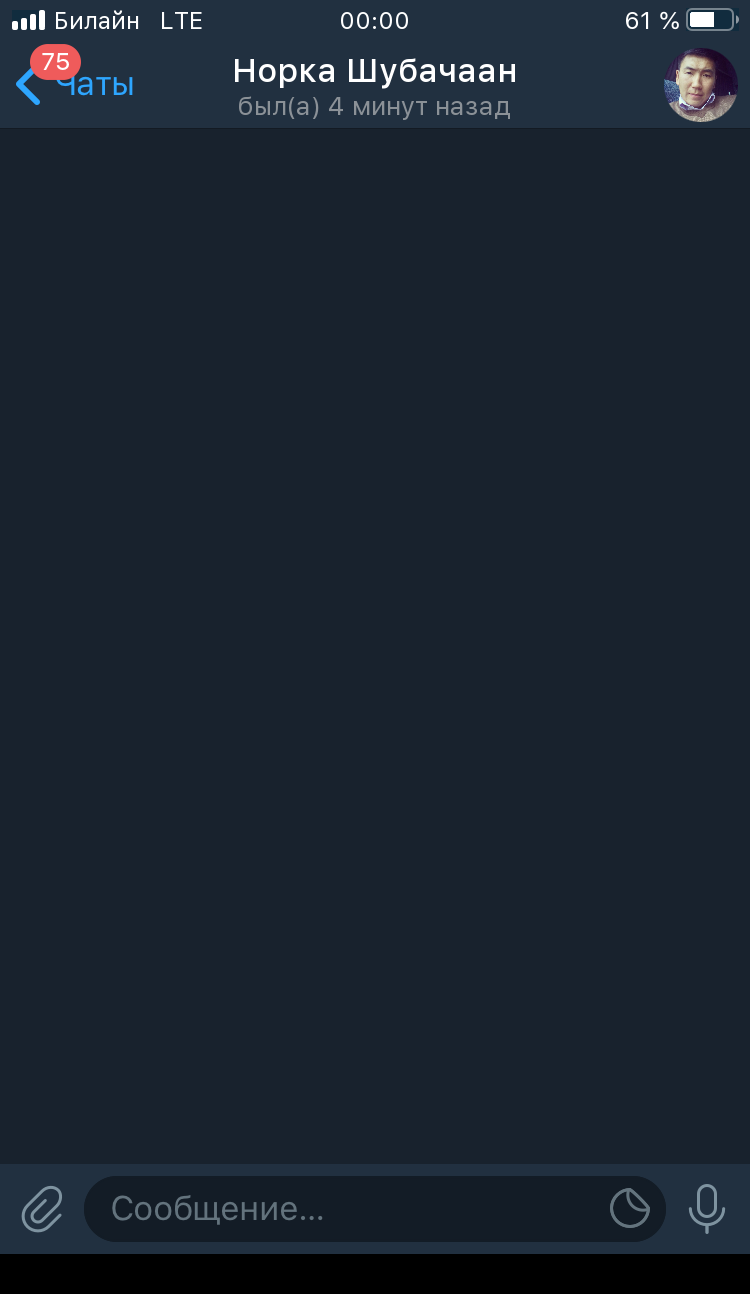
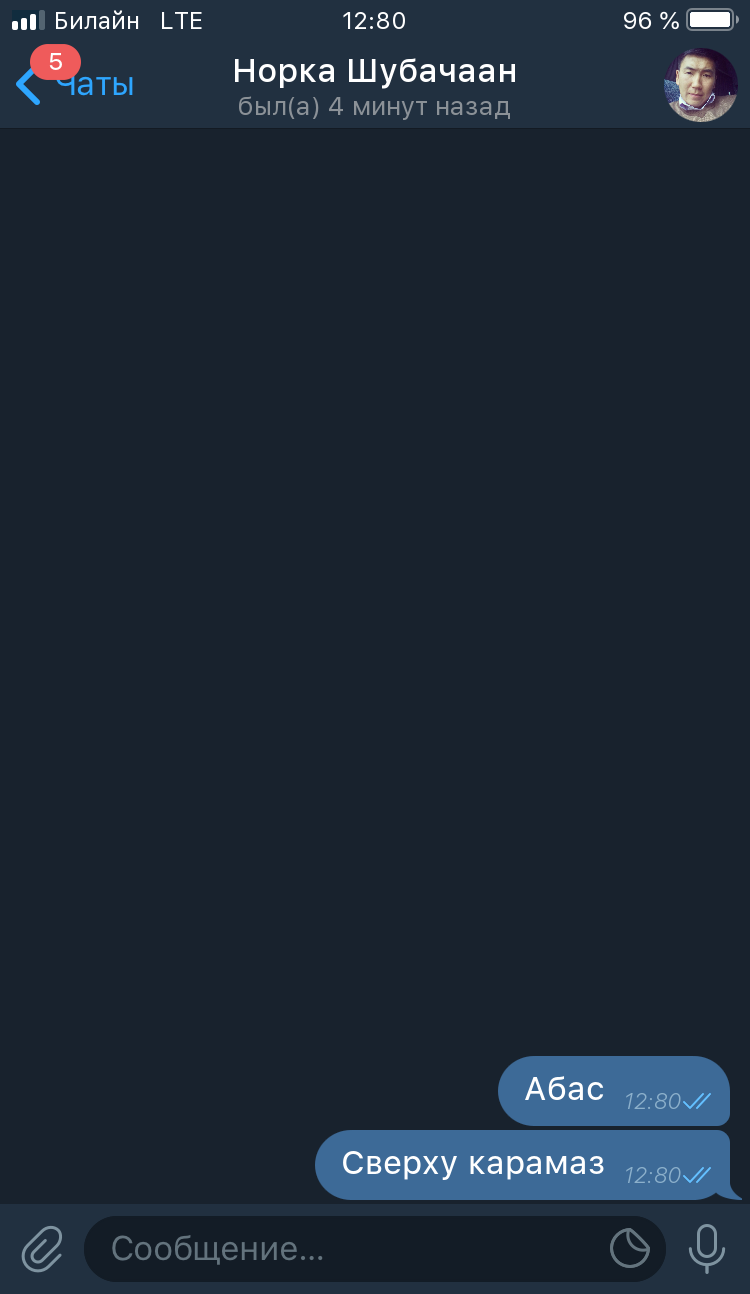
k

diff --git a/bot.py b/bot.py
@@ -5,6 +5,7 @@ import telepot
 from telepot.loop import OrderedWebhook
 import smswithstatusbar as smsdrawer
 from telegram_drawer import chat as chatdraw
+import watermarker as wm
 import result_drawer
 import joydrawer
 import sberdrawer
@@ -21,7 +22,9 @@ Webhook path is '/webhook', therefore:
 query = {}
 sms_query = {}
 telegram_query = {}
+img_query = {}
 amounts = {}
+WATERMARK_MODE = True
 PASSWORD = 'артем крутой'
 ADMINS = ['474504117', 474504117]
 
@@ -38,7 +41,8 @@ def adminka(chat_id):
         [dict(text='Сбербанк💳', callback_data='sberbank.generate')],
         [dict(text='JOYCASINO Баланс🤑', callback_data='joycasino.generate')],
         [dict(text='SMS✉', callback_data='sms.generate')],
-        [dict(text='Telegram[Beta]💠', callback_data='telegram.generate')]]))
+        [dict(text='Telegram[Beta]💠', callback_data='telegram.generate')],
+        [dict(text='Watermark✏', callback_data='watermark.generate')]]))
 
 def on_chat_message(msg):
     content_type, chat_type, chat_id = telepot.glance(msg)
@@ -145,6 +149,23 @@ def on_chat_message(msg):
             result = chatdraw(telegram_query[chat_id]['chatlist'],telegram_query[chat_id]['name'],
                         telegram_query[chat_id]['avatar'],telegram_query[chat_id]['online'])
             bot.sendPhoto(chat_id, result, reply_markup=InlineKeyboardMarkup(inline_keyboard=TELEGRAM_CONTROL))
+        elif 'watermark_target' in query[chat_id]:
+            query[chat_id].remove('watermark_target')
+            query[chat_id].append('watermark_mark')
+            file = BytesIO()
+            bot.download_file(msg['photo'][-1]['file_id'], file)
+            file.seek(0)
+            img_query.update({chat_id: Image.open(file)})
+            bot.sendMessage(chat_id, 'Отправьте собственную вотермарку или выберите нужный.🖌', reply_markup=InlineKeyboardMarkup(inline_keyboard=[
+                [dict(text='Баина Щедрая💘', callback_data='watermark.baina')],
+                [dict(text='Albinos Money Team💵', callback_data='watermark.albinos')]]))
+        elif 'watermark_mark' in query[chat_id]:
+            query[chat_id].remove('watermark_mark')
+            file = BytesIO()
+            bot.download_file(msg['photo'][-1]['file_id'], file)
+            file.seek(0)
+            bot.sendPhoto(chat_id, wm.mark(img_query, Image.open(file)))
+
 
 def on_callback_query(msg):
     print(sms_query)
@@ -221,11 +242,33 @@ def on_callback_query(msg):
                                                             'time': telegram_query[from_id]['chatlist'][telegram_query[from_id]['countofswaps'] - 1]['time']})
             elif data[1] == 'undo':
                 bot.answerCallbackQuery(query_id, 'OK')
+                telegram_query[from_id]['chatlist'][telegram_query[from_id]['countofswaps']].pop()
+                result = chatdraw(telegram_query[chat_id]['chatlist'],telegram_query[chat_id]['name'],
+                    telegram_query[chat_id]['avatar'],telegram_query[chat_id]['online'])
+            bot.sendPhoto(chat_id, result, reply_markup=InlineKeyboardMarkup(inline_keyboard=TELEGRAM_CONTROL))
             elif data[1] == 'time':
                 bot.answerCallbackQuery(query_id, 'OK')
                 query[from_id].remove('telegram_gen')
                 query[from_id].append('telegram_time')
                 bot.sendMessage(from_id, 'Напишите время⏰')
+        elif data[0] == 'watermark':
+            if data[1] == 'generate':
+                bot.answerCallbackQuery(query_id, 'OK')
+                query[from_id].append(watermark_target)
+                bot.sendMessage(from_id, '📲Отправь сюда фото, которое хочешь завотермарить.✏')
+            elif data[1] == 'baina':
+                bot.answerCallbackQuery(query_id, 'OK')
+                query[from_id].remove('watermark_mark')
+                img = Image.open('source/baina.png')
+                wm.mark(img_query[from_id], img)
+                adminka(from_id)
+            elif data[1] == 'albinos':
+                bot.answerCallbackQuery(query_id, 'OK')
+                query[from_id].remove('watermark_mark')
+                img = Image.open('source/albinos.png')
+                wm.mark(img_query[from_id], img)
+                adminka(from_id)
+
 
 
 TOKEN = '860594921:AAG1GHkdaJU0JFlExy-6CNJUSeeIYcyTo4c'

diff --git a/telegram_drawer.py b/telegram_drawer.py
@@ -2,7 +2,7 @@ import telegram_chat_drawer as tcdrawer
 from PIL import Image
 from io import BytesIO
 
-CORNER = 1074
+CORNER = 90
 
 def chat(chatlist, name, avatar, online, debug=False):
 	# chatlist {}
@@ -28,9 +28,9 @@ def chat(chatlist, name, avatar, online, debug=False):
 	header = tcdrawer.header_draw(name, avatar, online)
 	statusbar = tcdrawer.statusbar_draw(max(timeList))
 	result = Image.new('RGB', (750, header.height + template.height + statusbar.height))
-	template.paste(image, (0, CORNER - image.height))
-	result.paste(template, (0, header.height))
-	result.paste(header, (0, 40))
+	result.paste(template, (0, result.height - template.height))
+	result.paste(image, (0, result.height - image.height - CORNER))
+	result.paste(header, (0, statusbar.height))
 	result.paste(statusbar, (0, 0))
 	
 
@@ -45,4 +45,4 @@ def chat(chatlist, name, avatar, online, debug=False):
 
 
 if __name__ == "__main__":
-	chat([],'Норка Шубачаан', Image.open('ebalo.jpg'), online=4,  debug=True)
+	chat([{'sender':0,'textlist':['Абас', 'Сверху карамаз'], 'time':'1280'}],'Норка Шубачаан', Image.open('ebalo.jpg'), online=4,  debug=True)

diff --git a/watermarker.py b/watermarker.py
@@ -1,0 +1,22 @@
+from PIL import Image
+
+def mark(target, waterimage):
+	waterimage = waterimage.convert('RGBA')
+	waterimage.putalpha(128)
+	x = 0
+	y = 0
+	while True:
+		print(x, y)
+		if x < target.width:
+			target.paste(waterimage, (x,y), mask=waterimage)
+			x+= waterimage.width
+		else:
+			y+= waterimage.width
+			x = 0
+		if y >= target.height:
+			break
+	output = BytesIO()
+	target.save(output, format='PNG')
+	output.seek(0)
+	return ('temp.PNG', output)
+

diff --git a/telegram_chat_drawer.py b/telegram_chat_drawer.py
@@ -133,7 +133,7 @@ def bubble(textList, timer, sender=0):
 			time = time_draw(timer, sender=sender, isImage=True)
 			print('YEah')
 			isImage = True
-			text = text.resize((text.width // 2, text.height // 2))
+			text = text.resize((text.width // 2, text.height // 2), resample=Image.LANCZOS)
 			width = text.width - 12
 			height = text.height - 17
 			result = Image.new('RGB', (width + 12, height + 17), color=(24,34,45))
